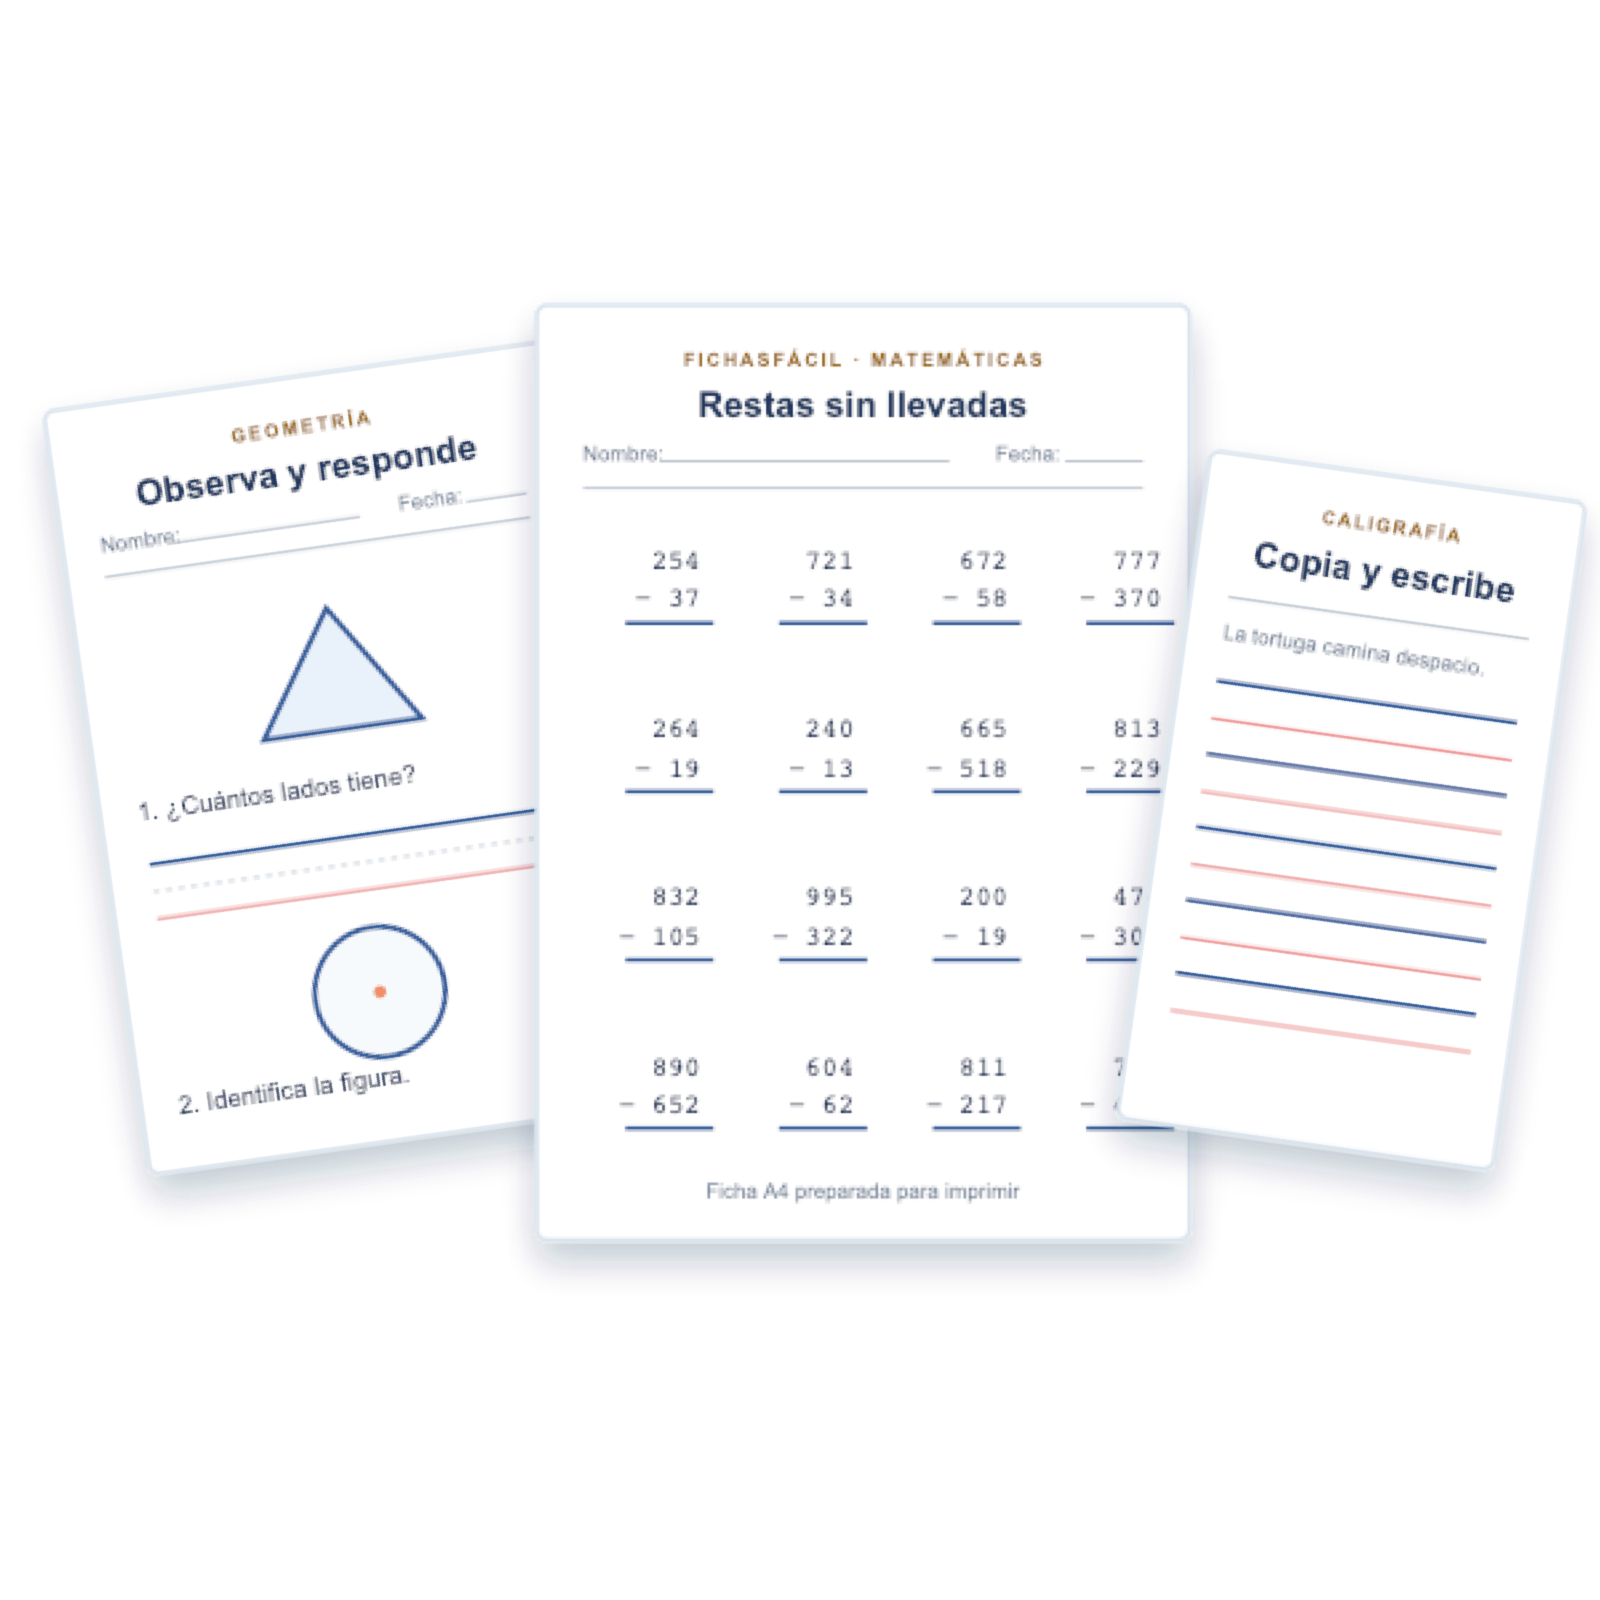
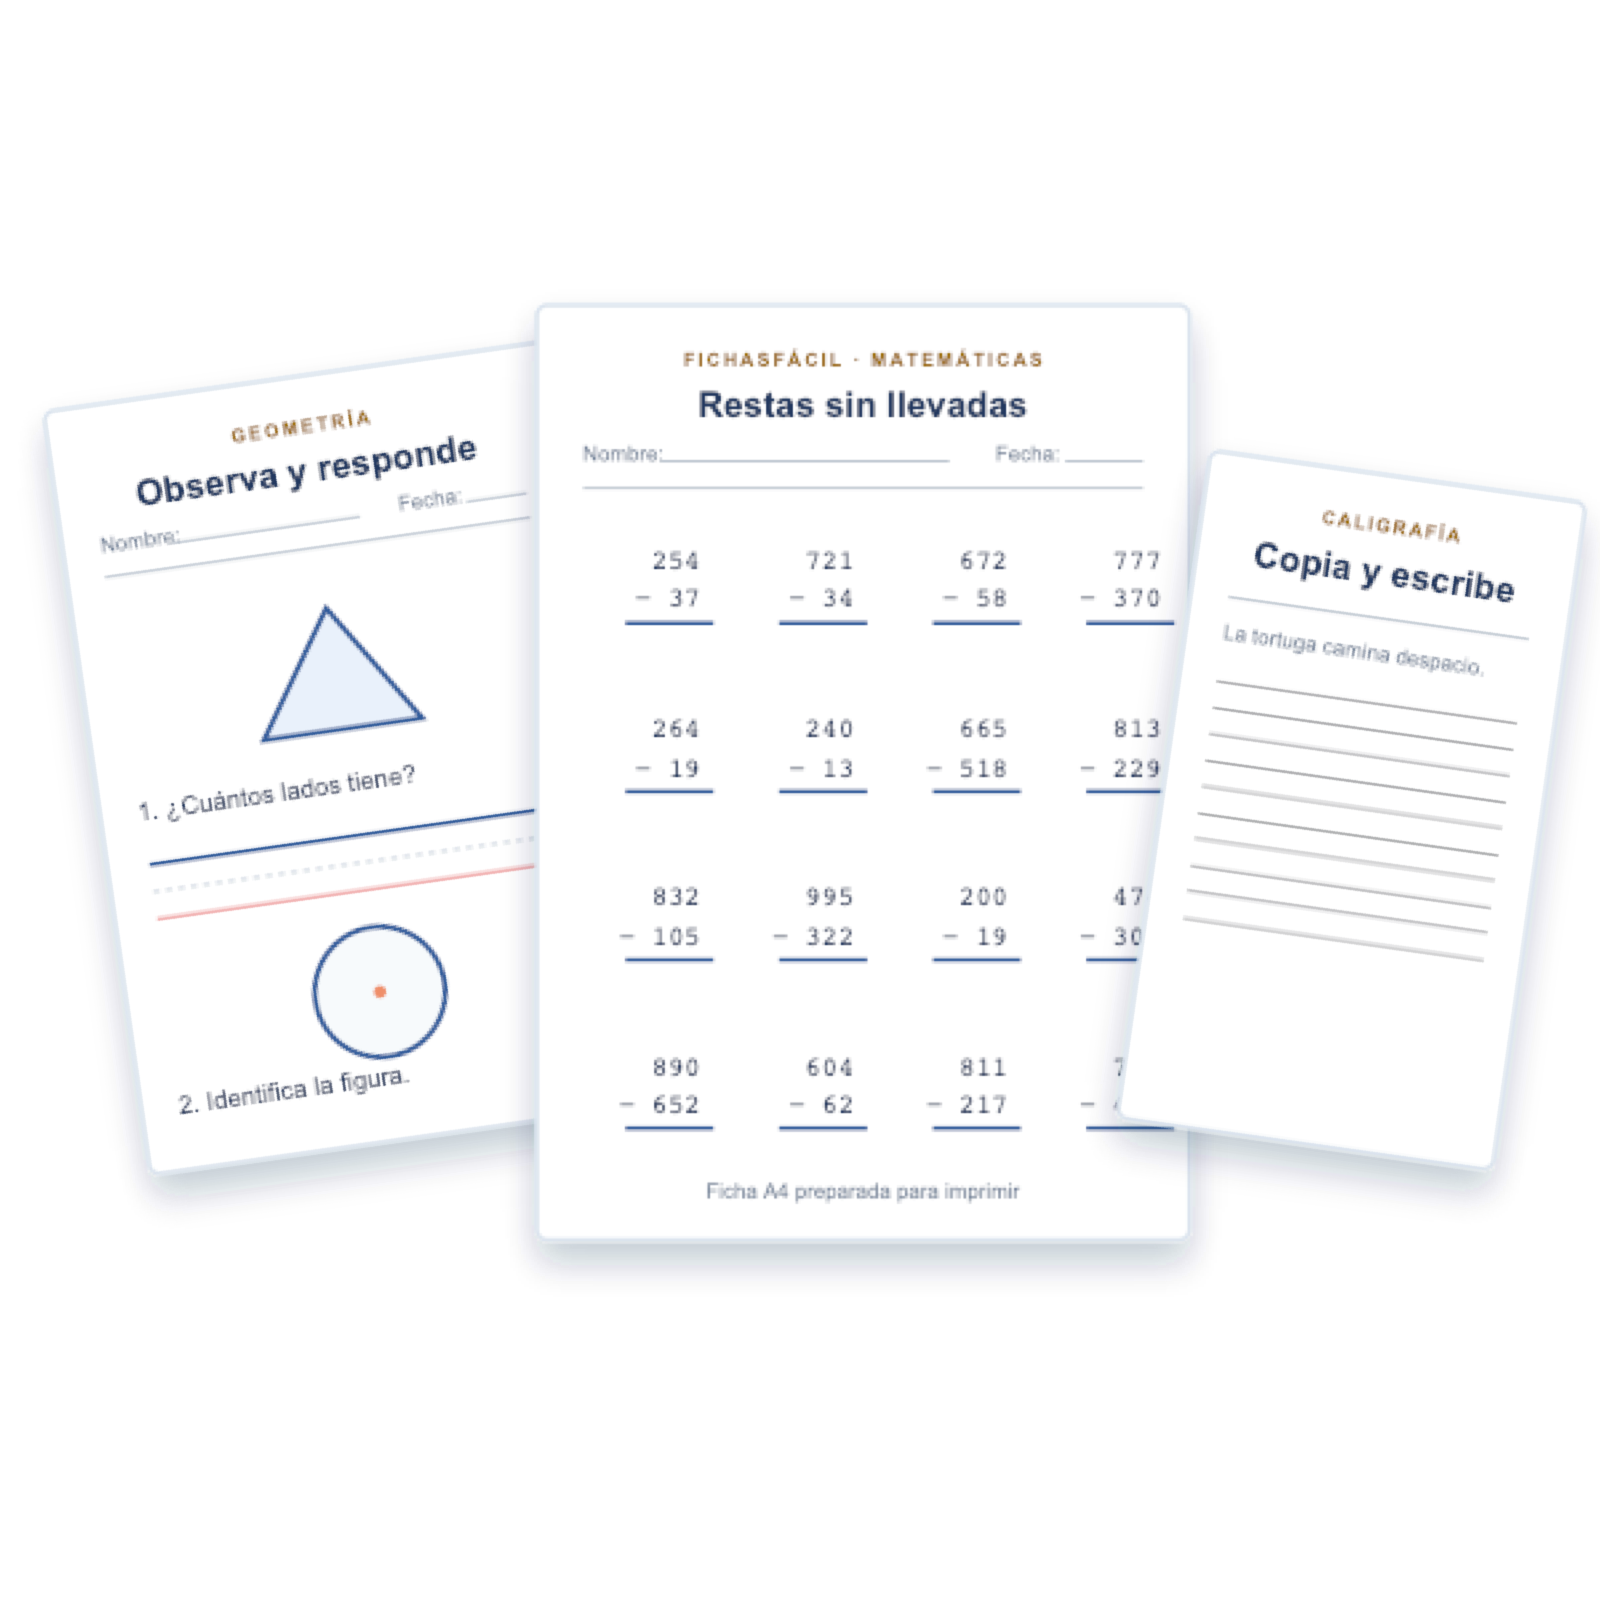
Reducir y oscurecer renglones de portada y fichas

Changed region(s): [[0.75, 0.4062, 0.9375, 0.6562]]

diff --git a/app.js b/app.js
@@ -859,7 +859,7 @@ function printableHtml(config, items, solutions) {
   const arithmetic = ['sumas', 'restas', 'multiplicaciones', 'divisiones'].includes(config.type);
   const rows = items.map((item, index) => exerciseMarkup(config, item, index, solutions)).join('');
   const copyingGuide = ['copiado', 'caligrafia'].includes(config.type) ? `<section class="copying-final-guide" style="display:block;break-before:auto;page-break-before:auto;break-inside:avoid;page-break-inside:avoid;width:180mm;margin:7mm auto 0"><h3 style="font-size:14px;margin:0 0 7px;color:#697772">Escribe el texto</h3><div class="lamela-guide" aria-label="Pauta Lamela para copiar el texto" style="display:block;width:100%;height:108mm;border-top:1.2px solid #647b9b">${Array.from({ length: 12 }, (_, index) => `<div class="lamela-line lamela-line-${index % 3}" aria-hidden="true" style="display:block;width:100%;height:9mm;border-bottom:${index % 3 === 0 ? '1.2px solid #7890af' : index % 3 === 1 ? '1px dashed #b7c4d2' : '1.2px solid #ef9b9b'}"></div>`).join('')}</div></section>` : '';
-  const simpleWritingGuide = ['copiado', 'caligrafia'].includes(config.type) ? `<section class="copying-final-guide" style="display:block;break-inside:avoid;page-break-inside:avoid;width:180mm;margin:7mm auto 0"><h3 style="font-size:14px;margin:0 0 7px;color:#697772">Escribe el texto</h3><div aria-label="Pauta de renglones para copiar el texto" style="display:grid;grid-template-rows:repeat(8,14mm);width:100%;height:112mm">${Array.from({ length: 8 }, () => '<div style="height:14mm;border-top:1.2px solid #7890af;border-bottom:1.2px solid #ef9b9b"></div>').join('')}</div></section>` : '';
+  const simpleWritingGuide = ['copiado', 'caligrafia'].includes(config.type) ? `<section class="copying-final-guide" style="display:block;break-inside:avoid;page-break-inside:avoid;width:180mm;margin:7mm auto 0"><h3 style="font-size:14px;margin:0 0 7px;color:#697772">Escribe el texto</h3><div aria-label="Pauta de renglones para copiar el texto" style="display:grid;grid-template-rows:repeat(10,9mm);width:100%;height:90mm">${Array.from({ length: 10 }, () => '<div style="height:9mm;border-top:1px solid #192330;border-bottom:1px solid #192330"></div>').join('')}</div></section>` : '';
   const worksheetHeader = `<table role="presentation" width="100%" border="0" cellspacing="0" cellpadding="0"><tbody><tr><td width="12%" align="left" valign="middle"><font face="Arial,Helvetica,sans-serif" size="2">Nombre:</font></td><td width="65%" align="left" valign="bottom"><font face="Arial,Helvetica,sans-serif" size="2">${name ? escapeHtml(name) : '&nbsp;'}</font><hr width="100%" size="1" color="#20283f" noshade></td><td width="8%" align="right" valign="middle"><font face="Arial,Helvetica,sans-serif" size="2">Fecha:</font></td><td width="15%" align="left" valign="bottom"><hr width="100%" size="1" color="#20283f" noshade></td></tr></tbody></table>`;
   let worksheetContent;
   if (arithmetic) {
@@ -999,11 +999,10 @@ function downloadPdf(config, items, solutions = false) {
   const writeAnswerLines = (count = 3) => {
     for (let row = 0; row < count; row += 1) {
       ensureSpace(10);
-      doc.setDrawColor(120, 144, 175);
+      doc.setDrawColor(25, 35, 50);
       doc.line(margin + 4, y, pageWidth - margin - 4, y);
-      doc.setDrawColor(239, 155, 155);
-      doc.line(margin + 4, y + 8, pageWidth - margin - 4, y + 8);
-      y += 10;
+      doc.line(margin + 4, y + 6, pageWidth - margin - 4, y + 6);
+      y += 8;
     }
     doc.setDrawColor(0, 0, 0);
     y += 3;

diff --git a/index.html b/index.html
@@ -56,7 +56,7 @@
             <button id="install-app" class="install-button" type="button" hidden>Instalar FichasFácil en este dispositivo</button>
           </div>
           <div class="hero-preview" aria-label="Ejemplo de una ficha educativa">
-            <img class="preview-real-sheets" src="assets/portada-fichas-reales-v2.png?v=20261011-1" alt="Varias fichas escolares imprimibles: restas, geometría y caligrafía" />
+            <img class="preview-real-sheets" src="assets/portada-fichas-reales-v2.png?v=20261011-2" alt="Varias fichas escolares imprimibles: restas, geometría y caligrafía" />
           </div>
         </div>
       </section>
@@ -154,7 +154,7 @@
       </section>
     </main>
 
-    <footer class="site-footer"><span>FichasFácil</span><span>Fichas educativas para practicar, imprimir y compartir.</span><span class="site-version" aria-label="Versión de la web">v55</span><nav aria-label="Enlaces de la página"><a href="#recursos">Recursos</a><a href="#preguntas">Preguntas frecuentes</a><a href="guia.html">Guía para usar fichas</a><a href="blog.html">Blog educativo</a><a href="mailto:fichasfaciles@gmail.com?subject=Consulta%20sobre%20FichasF%C3%A1cil" aria-label="Escribir a FichasFácil por correo">Contacto</a></nav></footer>
+    <footer class="site-footer"><span>FichasFácil</span><span>Fichas educativas para practicar, imprimir y compartir.</span><span class="site-version" aria-label="Versión de la web">v56</span><nav aria-label="Enlaces de la página"><a href="#recursos">Recursos</a><a href="#preguntas">Preguntas frecuentes</a><a href="guia.html">Guía para usar fichas</a><a href="blog.html">Blog educativo</a><a href="mailto:fichasfaciles@gmail.com?subject=Consulta%20sobre%20FichasF%C3%A1cil" aria-label="Escribir a FichasFácil por correo">Contacto</a></nav></footer>
 
     <div class="modal-backdrop" id="generator" aria-hidden="true">
       <section class="generator-modal" role="dialog" aria-modal="true" aria-labelledby="generator-title" aria-describedby="generator-help">

diff --git a/sw.js b/sw.js
@@ -1,4 +1,4 @@
-const CACHE_NAME = 'fichasfacil-v52';
+const CACHE_NAME = 'fichasfacil-v53';
 const APP_SHELL = [
   './',
   './index.html',
@@ -9,7 +9,7 @@ const APP_SHELL = [
   './pwa-icon.svg?v=20261011-17',
   './portada-fichas-reales.svg?v=20261011-1',
   './portada-fichas-reales-v2.svg?v=20261011-2',
-  './assets/portada-fichas-reales-v2.png?v=20261011-1',
+  './assets/portada-fichas-reales-v2.png?v=20261011-2',
   './blog.html',
   './guia.html',
   './llms.txt'
